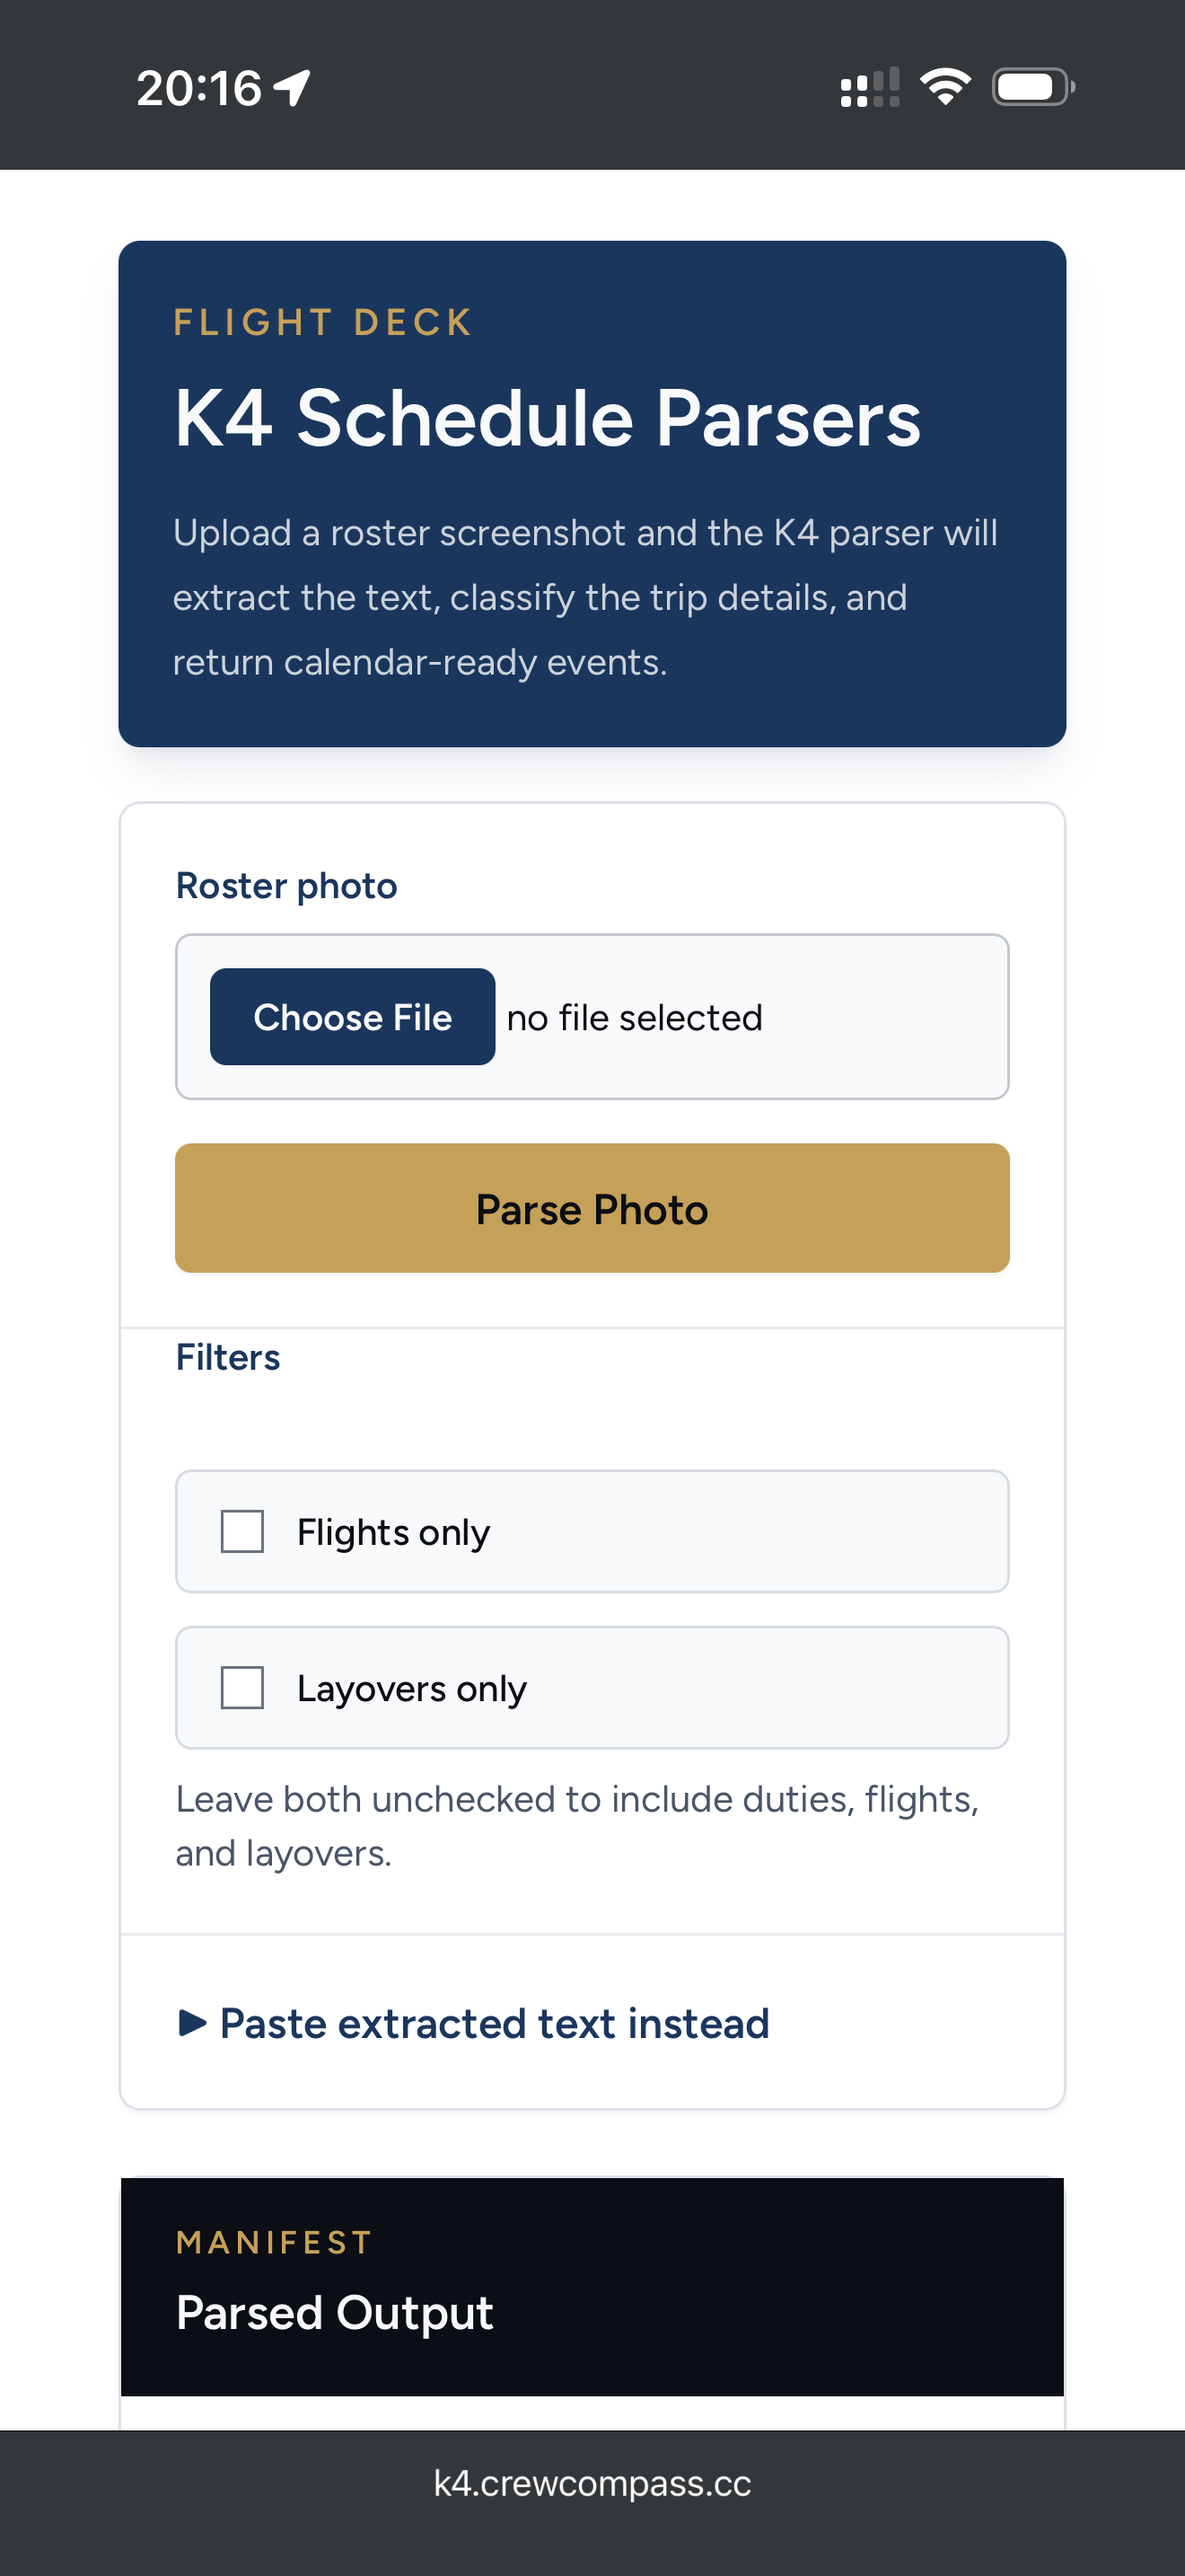
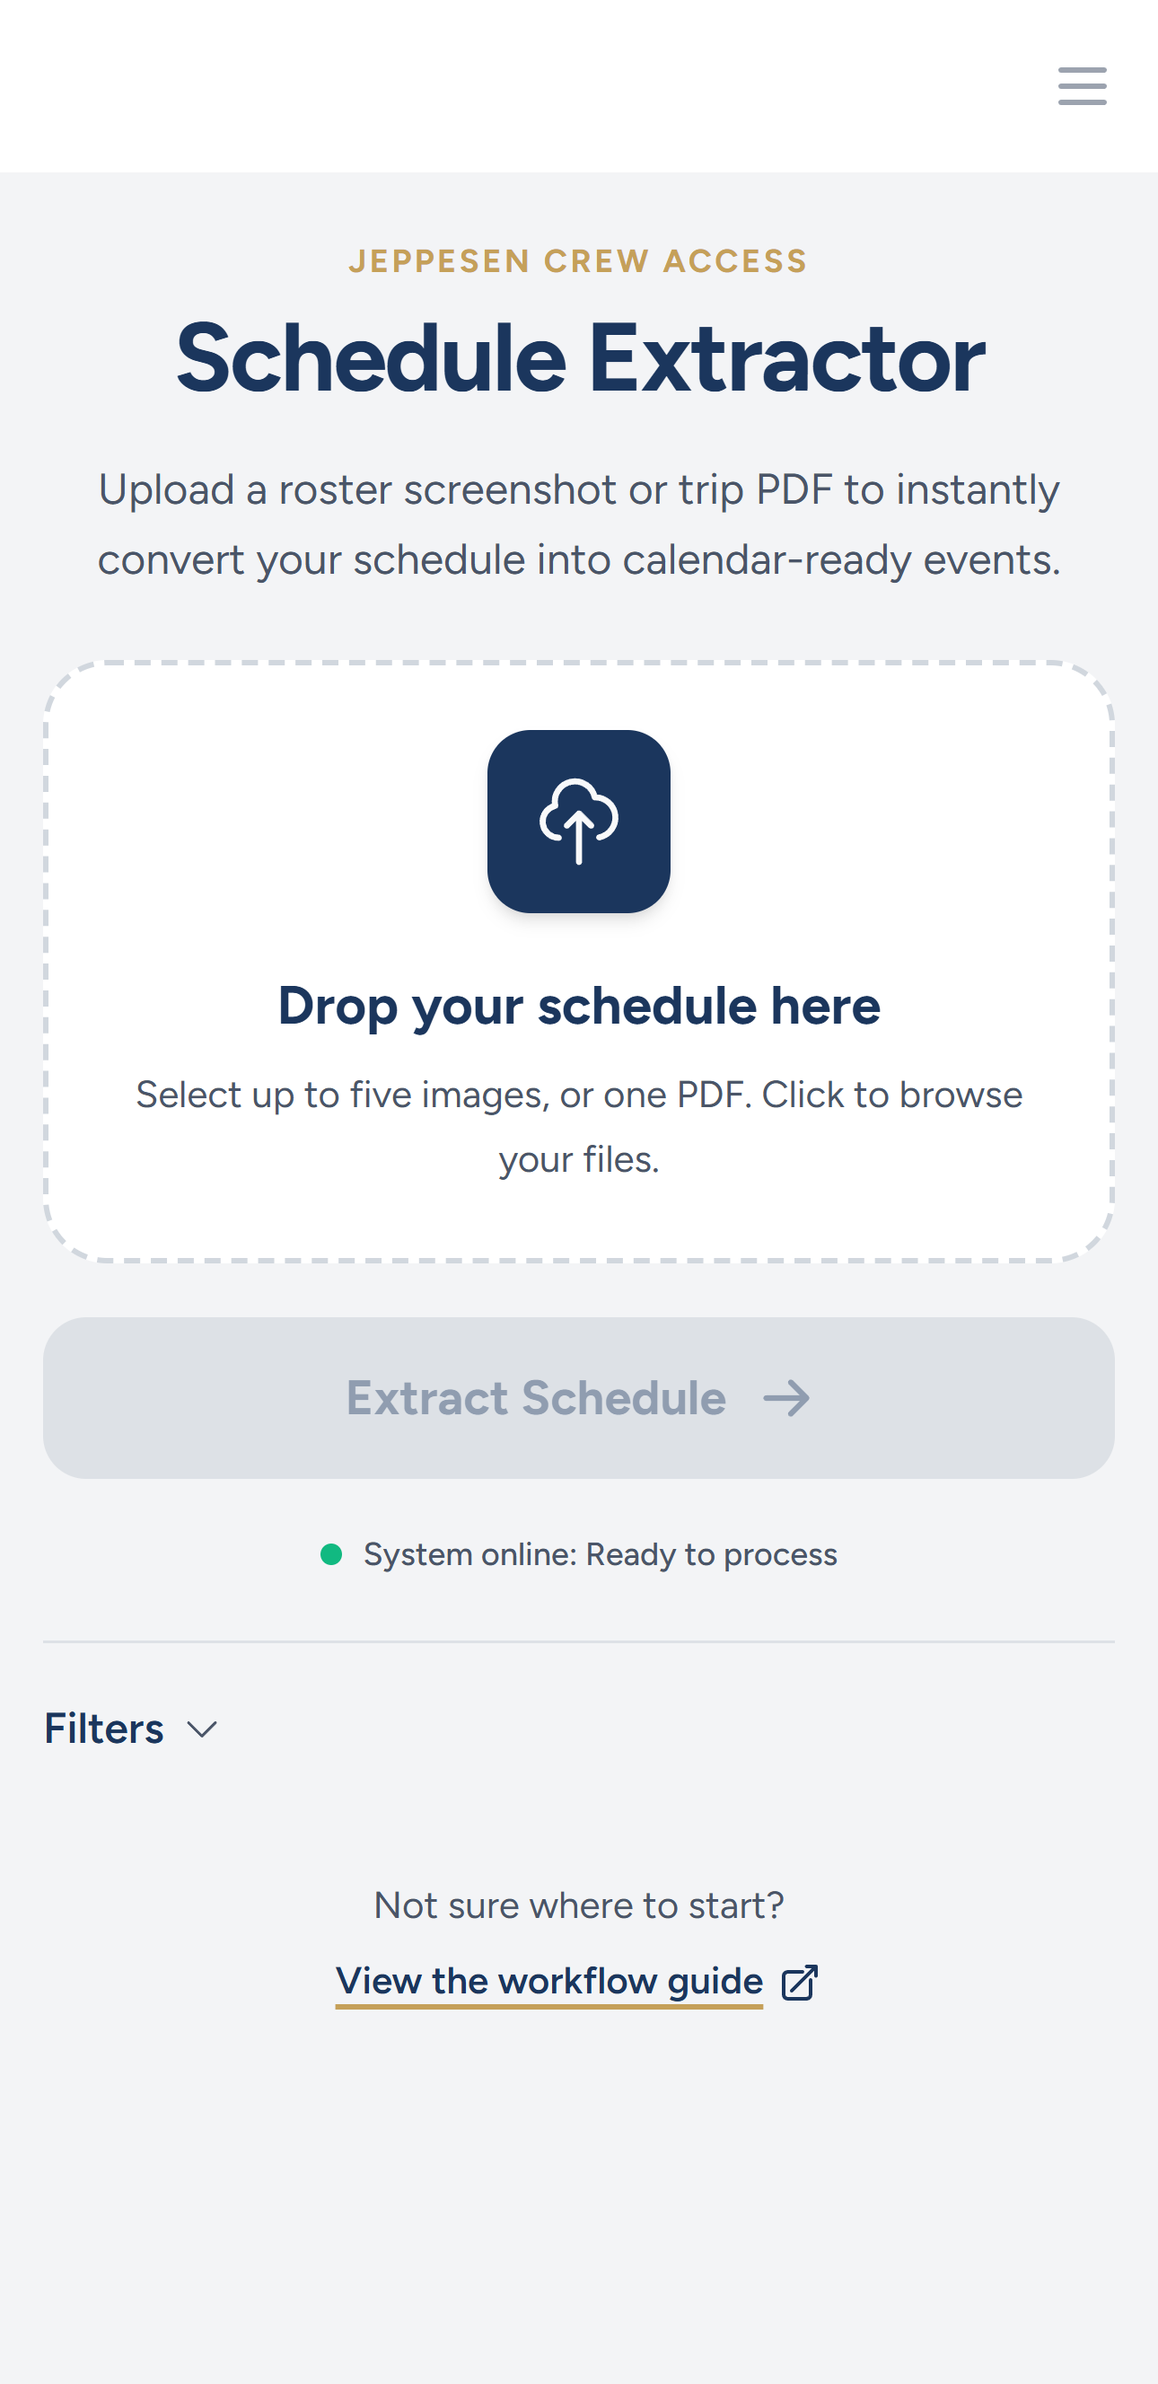
config: move airport provider URL to environment

diff --git a/tests/Unit/AirportLookupClientTest.php b/tests/Unit/AirportLookupClientTest.php
@@ -3,6 +3,7 @@
 namespace Tests\Unit;
 
 use App\Services\Clients\AirportLookupClient;
+use Illuminate\Support\Facades\Config;
 use Illuminate\Support\Facades\Http;
 use Illuminate\Support\Facades\Log;
 use Tests\TestCase;
@@ -11,9 +12,10 @@ class AirportLookupClientTest extends TestCase
 {
     public function test_successful_lookups_return_airport_data(): void
     {
+        Config::set('services.airport_provider.url', 'https://airports.example.test/custom/v1/');
         Http::preventStrayRequests();
         Http::fake([
-            'https://crewcompass.cc/api/v1/airports/lookup*' => Http::response([
+            'https://airports.example.test/custom/v1/airports/lookup*' => Http::response([
                 'data' => [
                     'icao' => 'EGLL',
                     'iata' => 'LHR',
@@ -31,6 +33,7 @@ class AirportLookupClientTest extends TestCase
         $this->assertSame('LHR', $airport->iata);
         $this->assertSame('EGLL', $airport->icao);
         Http::assertSentCount(1);
+        Http::assertSent(fn ($request): bool => $request->url() === 'https://airports.example.test/custom/v1/airports/lookup?iata=LHR');
     }
 
     public function test_connection_failures_are_retried_and_return_null(): void

diff --git a/tests/Unit/DTOs/AirportDataTest.php b/tests/Unit/DTOs/AirportDataTest.php
@@ -4,6 +4,7 @@ namespace Tests\Unit\DTOs;
 
 use App\DTOs\AirportData;
 use App\Services\Clients\AirportLookupClient;
+use Illuminate\Support\Facades\Config;
 use Illuminate\Support\Facades\Http;
 use Tests\TestCase;
 
@@ -28,8 +29,9 @@ class AirportDataTest extends TestCase
 
     public function test_it_resolves_a_successful_lookup_response_to_a_dto(): void
     {
+        Config::set('services.airport_provider.url', 'https://airports.example.test/api/v1');
         Http::fake([
-            'https://crewcompass.cc/api/v1/airports/lookup*' => Http::response([
+            'https://airports.example.test/api/v1/airports/lookup*' => Http::response([
                 'data' => [
                     'icao' => 'EGLL',
                     'iata' => 'LHR',

diff --git a/app/Services/Clients/AirportLookupClient.php b/app/Services/Clients/AirportLookupClient.php
@@ -16,7 +16,7 @@ class AirportLookupClient
 
     public function __construct()
     {
-        $this->baseUrl = config('services.airport_provider.url', 'http://localhost/api/v1');
+        $this->baseUrl = rtrim((string) config('services.airport_provider.url'), '/');
     }
 
     /**

diff --git a/config/services.php b/config/services.php
@@ -14,7 +14,7 @@ return [
     |
     */
     'airport_provider' => [
-        'url' => env('AIRPORT_PROVIDER_URL', 'https://crewcompass.cc/api/v1'),
+        'url' => env('AIRPORT_PROVIDER_URL', 'http://localhost/api/v1'),
     ],
 
     'postmark' => [

diff --git a/TODO.md b/TODO.md
@@ -10,18 +10,11 @@ Follow these rules for every remaining task:
 7. Create a commit message for each task
 
 
-## Completed: Clean crew names and remove deadhead badge
-* Outcome: Leading OCR markers such as `Xx` are removed from crew names, and crew rows retain the `DH` role without rendering a redundant `Deadhead` badge.
-* Verification: 12 focused tests pass with 87 assertions; Pint passes for dirty PHP files.
+## Completed: Configurable Airport Lookup Client address
+* Outcome: `AIRPORT_PROVIDER_URL` now controls the client base URL through service configuration, defaults to `http://localhost/api/v1`, and the client normalizes trailing slashes before requests.
+* Verification: 8 focused tests pass with 28 assertions; Pint passes for dirty PHP files.
 
-## Completed: Configurable schedule airline codes
-* Outcome: Schedule IATA/ICAO codes now come from environment-backed configuration, with validated per-user overrides available on the Profile page and used by both roster parsers.
-* Verification: 20 focused tests pass with 125 assertions; Pint passes for dirty PHP files.
-
-## Current focus: Airport Lookup Client address should be in .env with a fallback
-- migrate localhost value into .env and config
-
-## Flight accordion: 
+## Current focus: Flight accordion
 * Convert FLIGHT TIMES (LOCAL) and DUTY TIMES (LOCAL) into standard 2-column grid cards just like the rest, then group them under a distinct sub-heading so the layout pattern stays consistent.
 
 ## Remove Observer from operating crew
